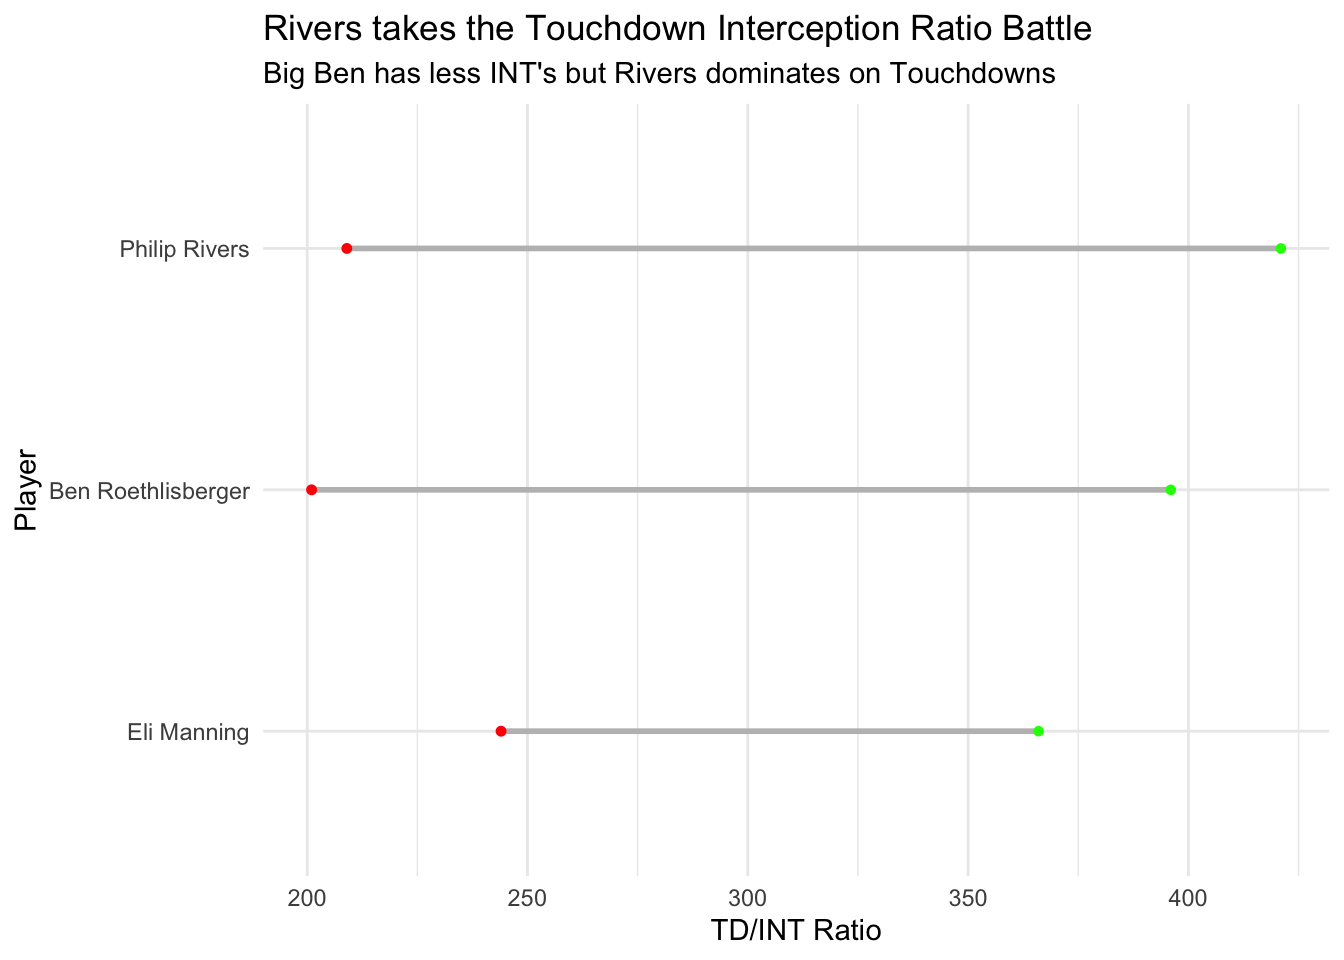
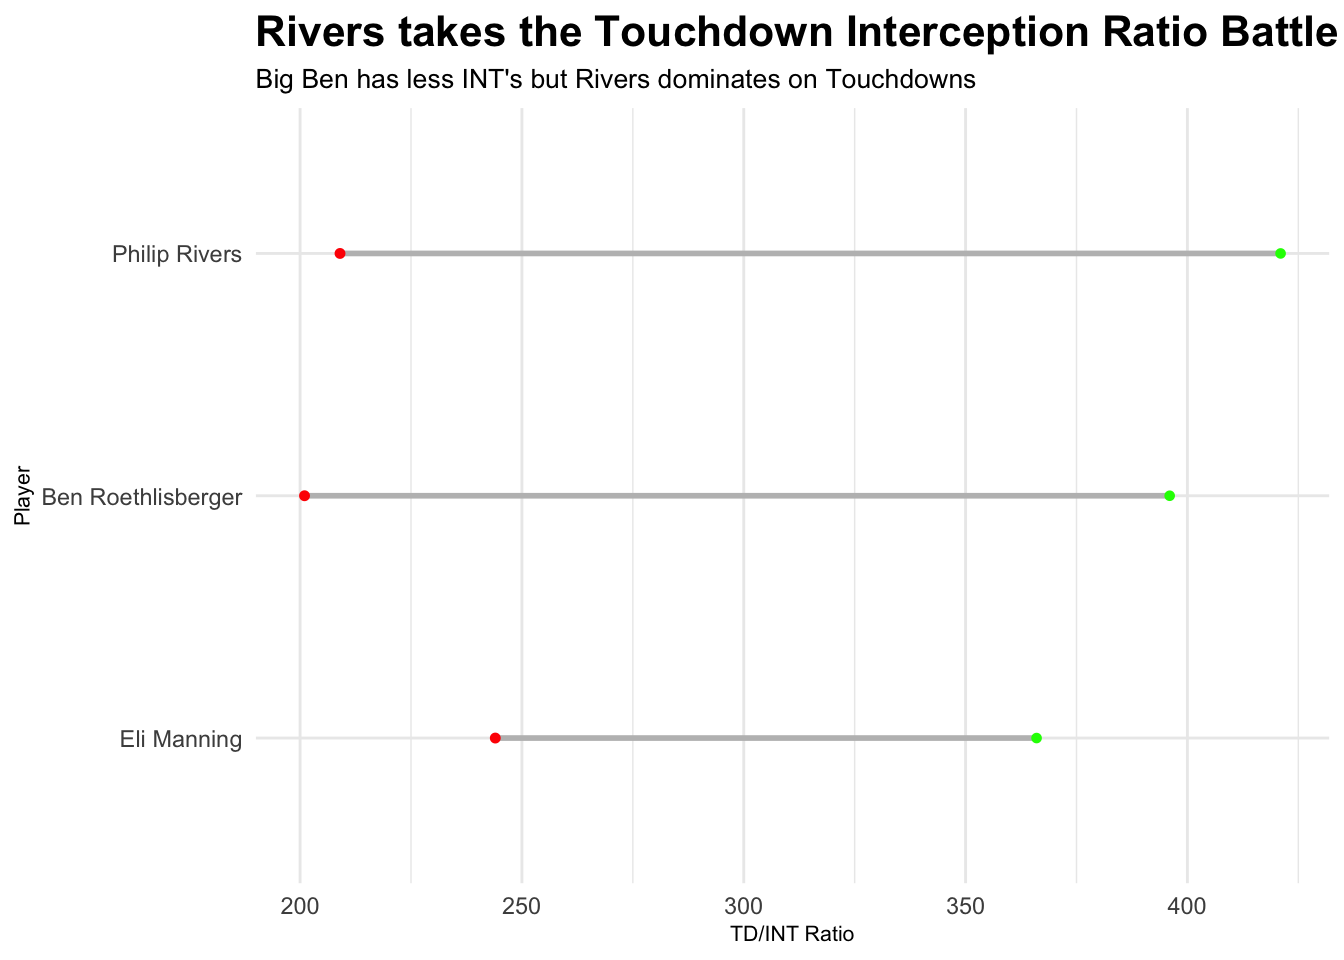
text fixes

diff --git a/2021/03/16/who-deserves-the-spot-in-the-hof-of-the-top-three-qbs-in-the-2004-draft/index.html b/2021/03/16/who-deserves-the-spot-in-the-hof-of-the-top-three-qbs-in-the-2004-draft/index.html
@@ -131,7 +131,11 @@ library(ggalt)</code></pre>
     colour_xend = &quot;red&quot;
   ) + 
   theme_minimal() + 
-   labs(title = &quot;Rivers takes the Touchdown Interception Ratio Battle&quot;, subtitle=&quot;Big Ben has less INT&#39;s but Rivers dominates on Touchdowns&quot;, y=&quot;Player&quot;, x=&quot;TD/INT Ratio&quot;)</code></pre>
+   labs(title = &quot;Rivers takes the Touchdown Interception Ratio Battle&quot;, subtitle=&quot;Big Ben has less INT&#39;s but Rivers dominates on Touchdowns&quot;, y=&quot;Player&quot;, x=&quot;TD/INT Ratio&quot;) +
+  theme(
+    plot.title = element_text(size = 16, face = &quot;bold&quot;),
+    axis.title = element_text(size = 8), 
+    plot.subtitle = element_text(size=10))</code></pre>
 <p><img src="/post/2021-03-16-the-draft/Index_files/figure-html/unnamed-chunk-8-1.png" width="672" /></p>
 
     </div>
